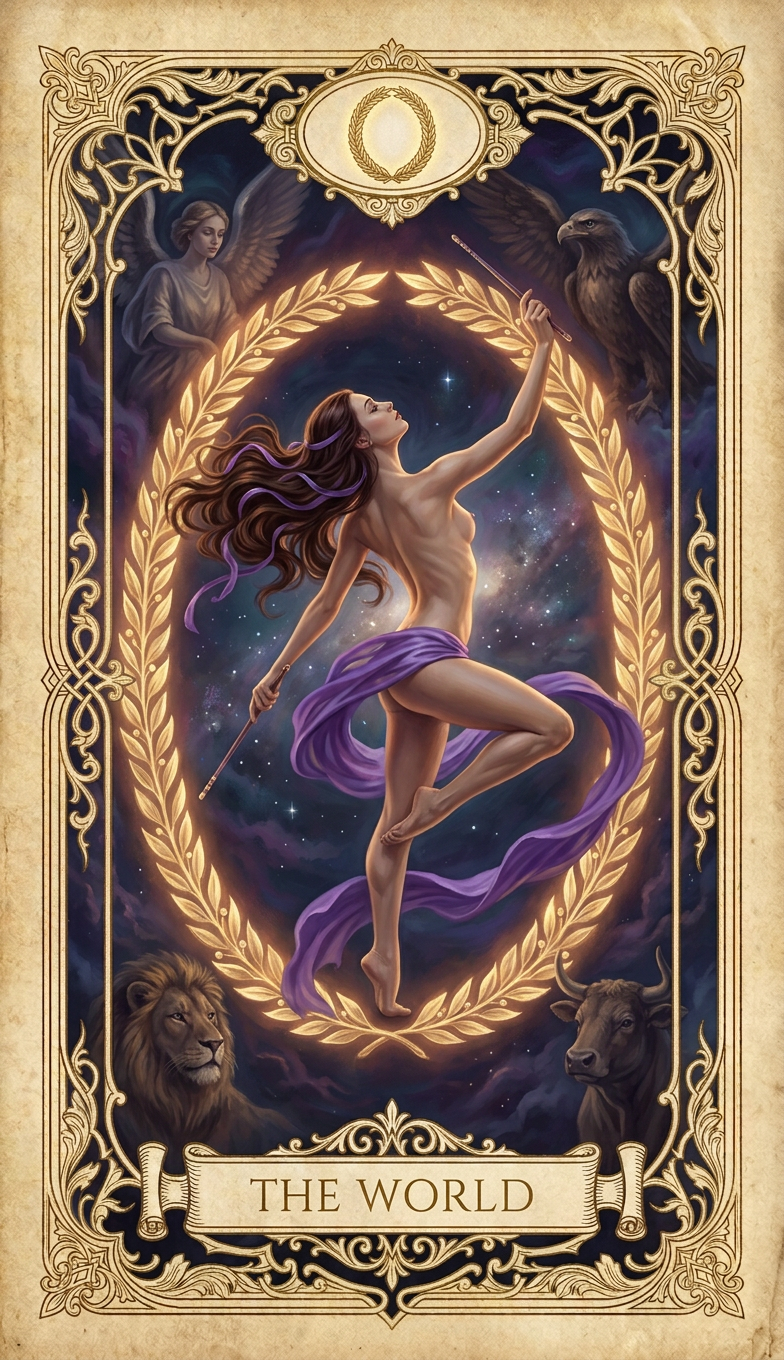
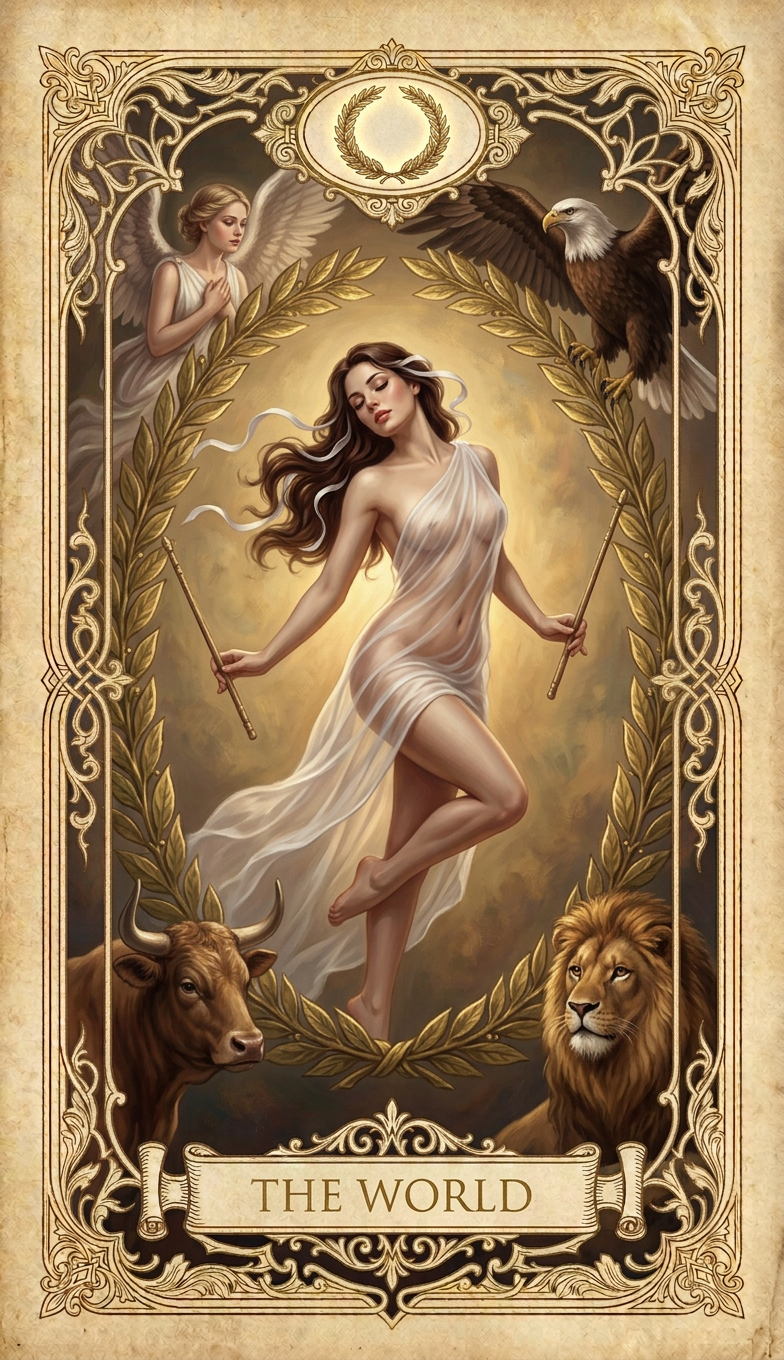
The World: softer demeanor + more sensual + transparent white silk
Reworked: serene dancer in a gentle pose, draped only in a diaphanous
transparent white silk veil (was violet scarf), soft loose hair with white
ribbons, still within the oval laurel wreath with the four creatures and
two wands. Frame-verified vs The Star (RMSE 0.020).

diff --git a/cards/index.html b/cards/index.html
@@ -246,7 +246,7 @@
             <div class="card-details">
                 <div class="card-title">THE WORLD</div>
                 <div class="card-meta"><strong>Độ tuổi:</strong> 22 years old &bull; <strong>Huy hiệu:</strong> a laurel wreath oval</div>
-                <div class="card-scene">a graceful adult woman dancer posed in a sinuous S-curve, one hip thrust out and one knee lifted, her body arched with the head tipped back and her shoulders and back bare, a flowing violet scarf swirling low around her hips and drifting behind her, one slim wand held out in each hand, dancing within a great oval laurel wreath, an angel, an eagle, a lion and a bull at the corners</div>
+                <div class="card-scene">a serene adult woman dancer posed gracefully with a gentle curve, one hip softly out and one knee lightly lifted, her body relaxed with her head tilted back, draped only in a diaphanous transparent white silk veil that clings to her soft curves and streams softly behind her, one slim wand held lightly in each hand, dancing within a great oval laurel wreath, an angel, an eagle, a lion and a bull at the corners</div>
             </div>
         </div>
         <div class="card-item">
